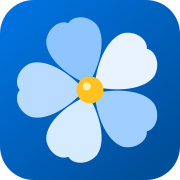
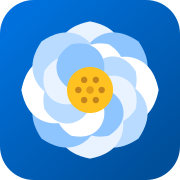
Replace the pinwheel mark with a lotus. (#22)
The header, favicon, and press lockup now use a top-down lotus with a yellow seed pod, in the same blue brand colors.

diff --git a/src/components/BrandLogo.tsx b/src/components/BrandLogo.tsx
@@ -22,9 +22,17 @@ const WORD_SIZE = {
 } as const;
 
 const PETAL_FILLS = {
-  light: ["#1F7FE8", "#005CBC", "#2B8AF0", "#004F9A", "#0071DC"],
-  bright: ["#8EC5FF", "#E8F3FF", "#9FCEFF", "#D7EBFF", "#B8DBFF"],
+  light: ["#1F7FE8", "#005CBC", "#2B8AF0", "#004F9A"],
+  bright: ["#E8F3FF", "#8EC5FF", "#FFFFFF", "#B8DBFF"],
 } as const;
+
+/** Wide lotus petal. The large seed pod is what makes the mark a lotus. */
+const LOTUS_PETAL =
+  "M0 2.2C7.4-0.4 13.6-8 11.4-15.6C9.6-21.6 4.2-23.6 0-24.4C-4.2-23.6-9.6-21.6-11.4-15.6C-13.6-8-7.4-0.4 0 2.2Z";
+
+const OUTER_ANGLES = [0, 45, 90, 135, 180, 225, 270, 315];
+const INNER_ANGLES = OUTER_ANGLES.map((angle) => angle + 22.5);
+const SEED_ANGLES = [0, 60, 120, 180, 240, 300];
 
 function LogoMark({
   className = "",
@@ -34,7 +42,6 @@ function LogoMark({
   tone: "light" | "bright";
 }) {
   const fills = PETAL_FILLS[tone];
-  const angles = [-18, 54, 126, 198, 270];
 
   return (
     <svg
@@ -44,17 +51,34 @@ function LogoMark({
       aria-hidden
       focusable="false"
     >
-      <g transform="translate(32 32)">
-        {angles.map((angle, i) => (
+      <g transform="translate(32 32) scale(1.18)">
+        {OUTER_ANGLES.map((angle, i) => (
           <path
-            key={angle}
+            key={`outer-${angle}`}
             transform={`rotate(${angle})`}
-            fill={fills[i]}
-            d="M0-2.5c7.5-6.5 14.2-16.8 11.8-24.2C9.2-32.4 2.8-33.8 0-31.2c-2.8-2.6-9.2-1.2-11.8 4.5C-14.2-19.3-7.5-9 0-2.5Z"
+            fill={fills[i % fills.length]}
+            d={LOTUS_PETAL}
           />
         ))}
-        <circle r="6" fill="#FFC220" />
-        <circle cx="-1.4" cy="-1.6" r="1.8" fill="#FFF1B8" opacity=".92" />
+        {INNER_ANGLES.map((angle, i) => (
+          <path
+            key={`inner-${angle}`}
+            transform={`rotate(${angle}) scale(0.72)`}
+            fill={fills[(i + 2) % fills.length]}
+            d={LOTUS_PETAL}
+          />
+        ))}
+        <circle r="8.2" fill="#FFC220" />
+        {SEED_ANGLES.map((angle) => (
+          <circle
+            key={angle}
+            cx={Math.cos((angle * Math.PI) / 180) * 4.15}
+            cy={Math.sin((angle * Math.PI) / 180) * 4.15}
+            r="1.15"
+            fill="#C4841D"
+          />
+        ))}
+        <circle r="1.35" fill="#E09A1A" />
       </g>
     </svg>
   );

diff --git a/src/app/press/page.tsx b/src/app/press/page.tsx
@@ -31,8 +31,8 @@ const assets = [
   },
   {
     href: "/logo-mark.svg",
-    label: "Pinwheel mark (SVG)",
-    detail: "Icon-only bloom mark",
+    label: "Lotus mark (SVG)",
+    detail: "Icon-only lotus",
   },
   {
     href: "/icon.png",
